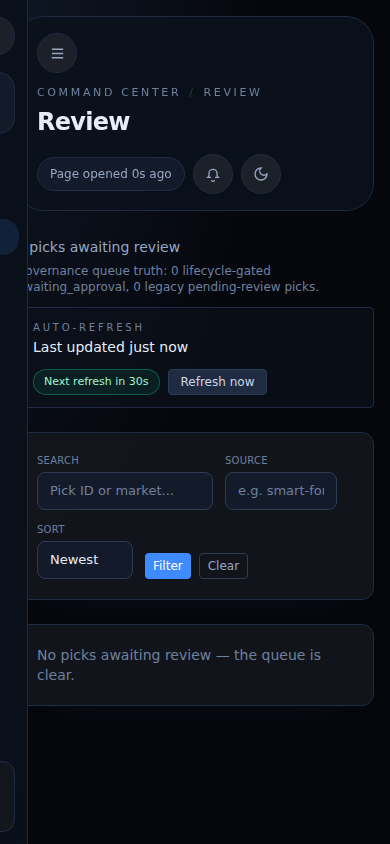
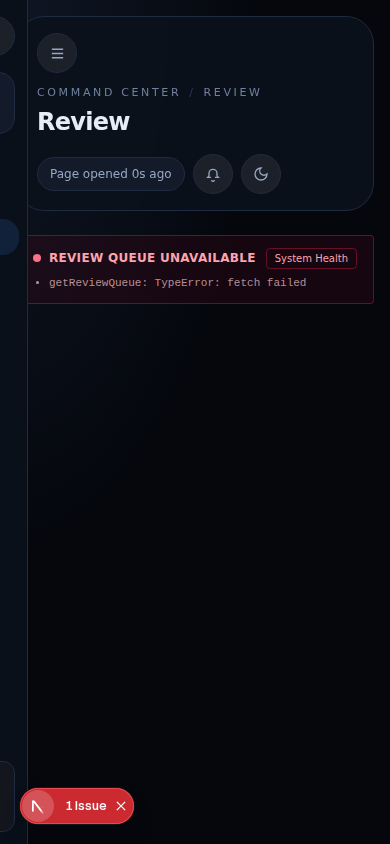
UTV2-1788: preserve WIP from interrupted attempt 3
Attempt 3 was terminated by the heartbeat watchdog (EXECUTION_SILENT) while
recapturing screenshots against the production build, not by a work failure
(codex exit 0). Commits the unlanded query-result helper and its test, four
touched data/render modules, and the partially recaptured screenshots so the
next attempt resumes from a durable state.

diff --git a/apps/command-center/src/lib/data/picks.ts b/apps/command-center/src/lib/data/picks.ts
@@ -1,4 +1,5 @@
 import { getDataClient, isTestFixturePick } from './client';
+import { assertQuerySucceeded } from '../query-result';
 
 // eslint-disable-next-line @typescript-eslint/no-explicit-any
 type Client = any;
@@ -57,6 +58,7 @@ async function enrichPickRowsWithIdentity(client: Client, rows: Array<JsonObject
   const submissionMap = new Map<string, { id: string; submitted_by: string | null; payload: JsonObject | null }>();
   for (const batch of chunkValues(submissionIds, ENRICHMENT_BATCH_SIZE)) {
     const result = await client.from('submissions').select('id, submitted_by, payload').in('id', batch);
+    assertQuerySucceeded(result, 'exception submission identity enrichment');
     for (const row of ((result.data ?? []) as Array<JsonObject>)) {
       const id = readTrimmedString(row['id']);
       if (id) submissionMap.set(id, { id, submitted_by: readTrimmedString(row['submitted_by']), payload: readJsonObject(row['payload']) });
@@ -66,6 +68,7 @@ async function enrichPickRowsWithIdentity(client: Client, rows: Array<JsonObject
   const participantMap = new Map<string, { id: string; display_name: string | null; participant_type: string | null }>();
   for (const batch of chunkValues(participantIds, ENRICHMENT_BATCH_SIZE)) {
     const result = await client.from('participants').select('id, display_name, participant_type').in('id', batch);
+    assertQuerySucceeded(result, 'exception participant identity enrichment');
     for (const row of ((result.data ?? []) as Array<JsonObject>)) {
       const id = readTrimmedString(row['id']);
       if (id) participantMap.set(id, { id, display_name: readTrimmedString(row['display_name']), participant_type: readTrimmedString(row['participant_type']) });
@@ -82,6 +85,7 @@ async function enrichPickRowsWithIdentity(client: Client, rows: Array<JsonObject
   const eventMap = new Map<string, { id: string; event_name: string | null; event_date: string | null }>();
   for (const batch of chunkValues(eventIds, ENRICHMENT_BATCH_SIZE)) {
     const result = await client.from('events').select('id, event_name, event_date').in('id', batch);
+    assertQuerySucceeded(result, 'exception event identity enrichment');
     for (const row of ((result.data ?? []) as Array<JsonObject>)) {
       const id = readTrimmedString(row['id']);
       if (id) eventMap.set(id, { id, event_name: readTrimmedString(row['event_name']), event_date: readTrimmedString(row['event_date']) });
@@ -162,6 +166,20 @@ export async function getExceptionQueues(filter?: { includeFixtures?: boolean })
     client.from('provider_market_aliases').select('provider, provider_market_key, sport_id'),
   ]);
 
+  for (const [label, result] of [
+    ['failed outbox', failedResult],
+    ['dead-letter outbox', deadLetterResult],
+    ['manual-review settlements', manualReviewResult],
+    ['stale picks', stalePicksResult],
+    ['awaiting-approval picks', awaitingApprovalResult],
+    ['promotion rerun candidates', rerunCandidatesResult],
+    ['provider offers', providerOffersResult],
+    ['provider book aliases', bookAliasesResult],
+    ['provider market aliases', marketAliasesResult],
+  ] as const) {
+    assertQuerySucceeded(result, `getExceptionQueues ${label}`);
+  }
+
   const failed = (failedResult.data ?? []) as Array<JsonObject>;
   const deadLetter = (deadLetterResult.data ?? []) as Array<JsonObject>;
   const manualReview = (manualReviewResult.data ?? []) as Array<JsonObject>;
@@ -181,8 +199,9 @@ export async function getExceptionQueues(filter?: { includeFixtures?: boolean })
   const allOutboxPickIds = [...new Set([...failed, ...deadLetter].map((r) => r['pick_id'] as string))];
   const pickMap = new Map<string, JsonObject>();
   if (allOutboxPickIds.length > 0) {
-    const { data: picks } = await client.from('picks').select('id, submission_id, participant_id, market, selection, source, status, line, odds, sport_id, metadata').in('id', allOutboxPickIds);
-    const enrichedPicks = (await enrichPickRowsWithIdentity(client, (picks ?? []) as Array<JsonObject>))
+    const picksResult = await client.from('picks').select('id, submission_id, participant_id, market, selection, source, status, line, odds, sport_id, metadata').in('id', allOutboxPickIds);
+    assertQuerySucceeded(picksResult, 'getExceptionQueues outbox pick context');
+    const enrichedPicks = (await enrichPickRowsWithIdentity(client, (picksResult.data ?? []) as Array<JsonObject>))
       .filter((row) => includeFixtures || !isFixtureLikePick(row));
     for (const p of enrichedPicks) pickMap.set(p['id'] as string, p);
   }
@@ -217,8 +236,9 @@ export async function getExceptionQueues(filter?: { includeFixtures?: boolean })
   const awaitingApprovalIds = [...new Set(awaitingApproval.map((row) => row['id']).filter((v): v is string => typeof v === 'string'))];
   const lifecycleByPick = new Map<string, Array<JsonObject>>();
   if (awaitingApprovalIds.length > 0) {
-    const { data: lifecycleRows } = await client.from('pick_lifecycle').select('id, pick_id, from_state, to_state, created_at').in('pick_id', awaitingApprovalIds).order('created_at', { ascending: false });
-    for (const row of ((lifecycleRows ?? []) as Array<JsonObject>)) {
+    const lifecycleResult = await client.from('pick_lifecycle').select('id, pick_id, from_state, to_state, created_at').in('pick_id', awaitingApprovalIds).order('created_at', { ascending: false });
+    assertQuerySucceeded(lifecycleResult, 'getExceptionQueues lifecycle evidence');
+    for (const row of ((lifecycleResult.data ?? []) as Array<JsonObject>)) {
       const pickId = row['pick_id'];
       if (typeof pickId !== 'string') continue;
       const existing = lifecycleByPick.get(pickId);

diff --git a/apps/command-center/src/lib/data/snapshot.ts b/apps/command-center/src/lib/data/snapshot.ts
@@ -1,4 +1,5 @@
 import { getDataClient, OUTBOX_HISTORY_CUTOFF } from './client';
+import { assertQuerySucceeded, readAuthoritativeCount } from '../query-result';
 import {
   resolveEffectiveSettlement,
   computeSettlementSummary,
@@ -484,12 +485,16 @@ export async function getSnapshotData(filter?: OutboxFilter): Promise<unknown> {
   const participants = eventParticipants.length > 0 ? await loadParticipantsForEvents(client, eventParticipants) : [];
   const upcomingEvents = mapUpcomingEvents(upcomingEventsRaw, eventParticipants, participants);
 
+  const validatedCount = readAuthoritativeCount(validatedCountResult, 'snapshot validated picks');
+  const queuedCount = readAuthoritativeCount(queuedCountResult, 'snapshot queued picks');
+  const postedCount = readAuthoritativeCount(postedCountResult, 'snapshot posted picks');
+  const settledCount = readAuthoritativeCount(settledCountResult, 'snapshot settled picks');
   const picksPipelineCounts = {
-    validated: validatedCountResult.count ?? 0,
-    queued: queuedCountResult.count ?? 0,
-    posted: postedCountResult.count ?? 0,
-    settled: settledCountResult.count ?? 0,
-    total: (validatedCountResult.count ?? 0) + (queuedCountResult.count ?? 0) + (postedCountResult.count ?? 0) + (settledCountResult.count ?? 0),
+    validated: validatedCount,
+    queued: queuedCount,
+    posted: postedCount,
+    settled: settledCount,
+    total: validatedCount + queuedCount + postedCount + settledCount,
   };
 
   const filteredOutbox = recentOutbox.filter((row) => row.created_at >= OUTBOX_HISTORY_CUTOFF);
@@ -658,11 +663,11 @@ export async function getSnapshotData(filter?: OutboxFilter): Promise<unknown> {
       recentAudit,
       workerRuntime,
       entityHealth: {
-        resolvedEventsCount: resolvedEventsCountResult.count ?? 0,
-        upcomingEventsCount: upcomingEventsCountResult.count ?? 0,
-        resolvedPlayersCount: resolvedPlayersCountResult.count ?? 0,
-        resolvedTeamsWithExternalIdCount: resolvedTeamsWithExternalIdCountResult.count ?? 0,
-        totalTeamsCount: totalTeamsCountResult.count ?? 0,
+        resolvedEventsCount: readAuthoritativeCount(resolvedEventsCountResult, 'snapshot resolved events'),
+        upcomingEventsCount: readAuthoritativeCount(upcomingEventsCountResult, 'snapshot upcoming events'),
+        resolvedPlayersCount: readAuthoritativeCount(resolvedPlayersCountResult, 'snapshot resolved players'),
+        resolvedTeamsWithExternalIdCount: readAuthoritativeCount(resolvedTeamsWithExternalIdCountResult, 'snapshot resolved teams'),
+        totalTeamsCount: readAuthoritativeCount(totalTeamsCountResult, 'snapshot total teams'),
         observedAt: new Date().toISOString(),
       },
       upcomingEvents,
@@ -708,14 +713,29 @@ export async function getPicksPipelineData(filter?: OutboxFilter): Promise<unkno
     client.from('settlement_records').select('*').order('created_at', { ascending: false }).limit(fetchLimit),
   ]);
 
+  for (const [label, result] of [
+    ['validated picks', validatedCountResult],
+    ['queued picks', queuedCountResult],
+    ['posted picks', postedCountResult],
+    ['settled picks', settledCountResult],
+    ['recent picks', picksResult],
+    ['recent settlements', settlementsResult],
+  ] as const) {
+    assertQuerySucceeded(result, `getPicksPipelineData ${label}`);
+  }
+
   const recentPicks = (picksResult.data ?? []) as PickRecord[];
   const recentSettlements = (settlementsResult.data ?? []) as SettlementRecord[];
+  const validatedCount = readAuthoritativeCount(validatedCountResult, 'pipeline validated picks');
+  const queuedCount = readAuthoritativeCount(queuedCountResult, 'pipeline queued picks');
+  const postedCount = readAuthoritativeCount(postedCountResult, 'pipeline posted picks');
+  const settledCount = readAuthoritativeCount(settledCountResult, 'pipeline settled picks');
   const picksPipelineCounts = {
-    validated: validatedCountResult.count ?? 0,
-    queued: queuedCountResult.count ?? 0,
-    posted: postedCountResult.count ?? 0,
-    settled: settledCountResult.count ?? 0,
-    total: (validatedCountResult.count ?? 0) + (queuedCountResult.count ?? 0) + (postedCountResult.count ?? 0) + (settledCountResult.count ?? 0),
+    validated: validatedCount,
+    queued: queuedCount,
+    posted: postedCount,
+    settled: settledCount,
+    total: validatedCount + queuedCount + postedCount + settledCount,
   };
   const pipeline = summarizePicksPipeline(recentPicks, recentSettlements, picksPipelineCounts);
 

diff --git a/apps/command-center/src/lib/data/queues.ts b/apps/command-center/src/lib/data/queues.ts
@@ -1,5 +1,6 @@
 /* eslint-disable @typescript-eslint/no-explicit-any */
 import { getDataClient, isTestFixturePick } from './client';
+import { assertQuerySucceeded } from '../query-result';
 
 // ── Shared internal type ─────────────────────────────────────────────────────
 
@@ -347,10 +348,7 @@ export async function getReviewQueue(
 
     const { data, count, error } = await awaitWithTimeoutRetry(() => query);
 
-    if (error) {
-      console.error('getReviewQueue error:', error);
-      return { picks: [], total: 0, degraded: describeQueueError(error) };
-    }
+    assertQuerySucceeded({ error }, 'getReviewQueue');
 
     const rows = (data ?? []) as JsonObject[];
     const picks = rows
@@ -360,7 +358,7 @@ export async function getReviewQueue(
     return { picks, total: count ?? picks.length, degraded: null };
   } catch (err) {
     console.error('getReviewQueue exception:', err);
-    return { picks: [], total: 0, degraded: err instanceof Error ? err.message : String(err) };
+    throw err instanceof Error ? err : new Error(String(err));
   }
 }
 
@@ -531,10 +529,7 @@ export async function searchPicks(
 
     const { data, count, error } = await awaitWithTimeoutRetry(() => query);
 
-    if (error) {
-      console.error('searchPicks error:', error);
-      return { picks: [], total: 0, limit, offset };
-    }
+    assertQuerySucceeded({ error }, 'searchPicks');
 
     const rows = (data ?? []) as JsonObject[];
 
@@ -552,7 +547,7 @@ export async function searchPicks(
     return { picks, total: count ?? picks.length, limit, offset };
   } catch (err) {
     console.error('searchPicks exception:', err);
-    return { picks: [], total: 0, limit, offset };
+    throw err instanceof Error ? err : new Error(String(err));
   }
 }
 

diff --git a/apps/command-center/src/lib/query-result.ts b/apps/command-center/src/lib/query-result.ts
@@ -1,0 +1,28 @@
+type QueryResultLike = {
+  error?: unknown;
+  count?: number | null;
+};
+
+function describeQueryError(error: unknown): string {
+  if (error instanceof Error && error.message.trim().length > 0) return error.message;
+  if (error !== null && typeof error === 'object') {
+    const record = error as Record<string, unknown>;
+    if (typeof record['message'] === 'string' && record['message'].trim().length > 0) return record['message'];
+    if (typeof record['code'] === 'string' && record['code'].trim().length > 0) return `database error ${record['code']}`;
+  }
+  return 'unknown database error';
+}
+
+export function assertQuerySucceeded(result: QueryResultLike, label: string): void {
+  if (result.error) {
+    throw new Error(`${label}: ${describeQueryError(result.error)}`);
+  }
+}
+
+export function readAuthoritativeCount(result: QueryResultLike, label: string): number {
+  assertQuerySucceeded(result, label);
+  if (typeof result.count !== 'number' || !Number.isFinite(result.count)) {
+    throw new Error(`${label}: authoritative count unavailable`);
+  }
+  return result.count;
+}

diff --git a/apps/command-center/src/lib/query-result.test.ts b/apps/command-center/src/lib/query-result.test.ts
@@ -1,0 +1,18 @@
+import assert from 'node:assert/strict';
+import { test } from 'node:test';
+import { assertQuerySucceeded, readAuthoritativeCount } from './query-result';
+
+test('assertQuerySucceeded rejects database errors instead of allowing an empty-state fallback', () => {
+  assert.throws(
+    () => assertQuerySucceeded({ error: { message: 'connection unavailable' } }, 'review queue'),
+    /review queue: connection unavailable/,
+  );
+});
+
+test('readAuthoritativeCount distinguishes measured zero from an unavailable count', () => {
+  assert.equal(readAuthoritativeCount({ error: null, count: 0 }, 'active picks'), 0);
+  assert.throws(
+    () => readAuthoritativeCount({ error: null, count: null }, 'active picks'),
+    /active picks: authoritative count unavailable/,
+  );
+});

diff --git a/apps/command-center/src/app/review/page.tsx b/apps/command-center/src/app/review/page.tsx
@@ -39,12 +39,12 @@ export default async function ReviewQueuePage({
     loadError = describeOperatorFailure(error, 'The governed review queue could not be loaded.');
   }
 
-  if (!queue) {
+  if (!queue || queue.degraded) {
     return (
       <DegradedState
         severity="critical"
         title="Review queue unavailable"
-        causes={[loadError ?? 'The governed review queue could not be loaded. No queue count was inferred.']}
+        causes={[queue?.degraded ?? loadError ?? 'The governed review queue could not be loaded. No queue count was inferred.']}
         action={{ label: 'System Health', href: '/api-health' }}
       />
     );
